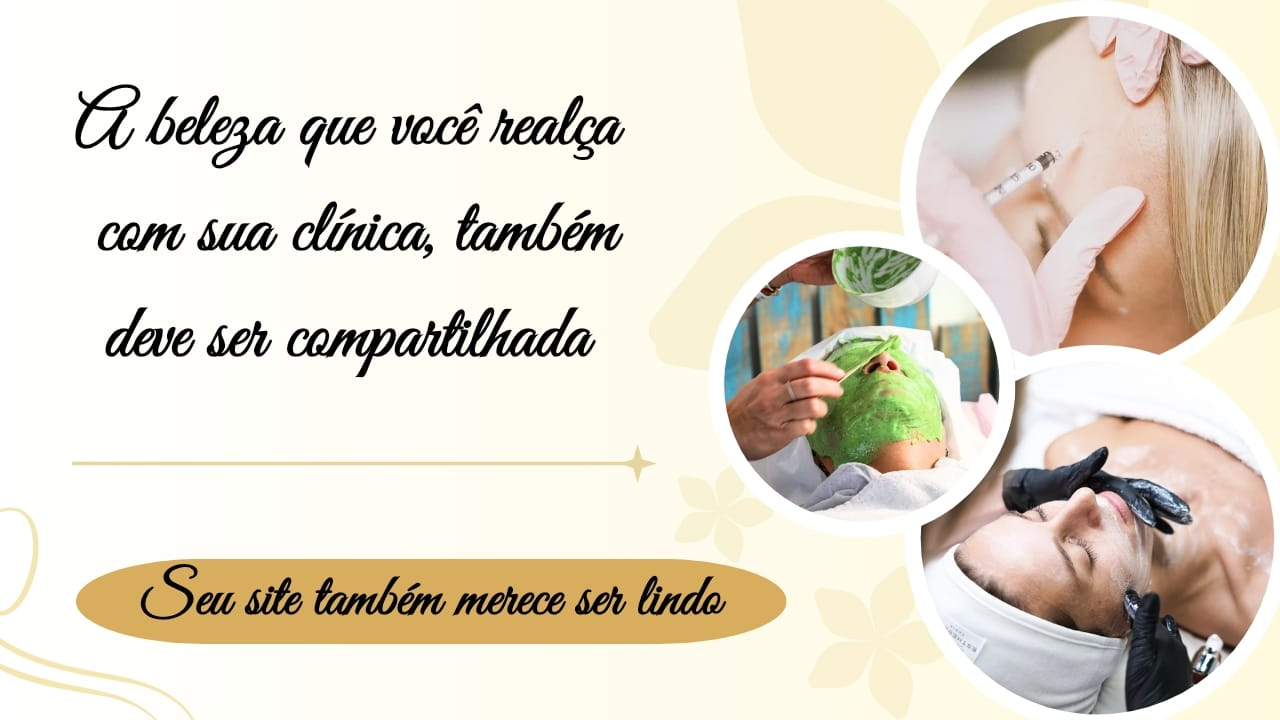
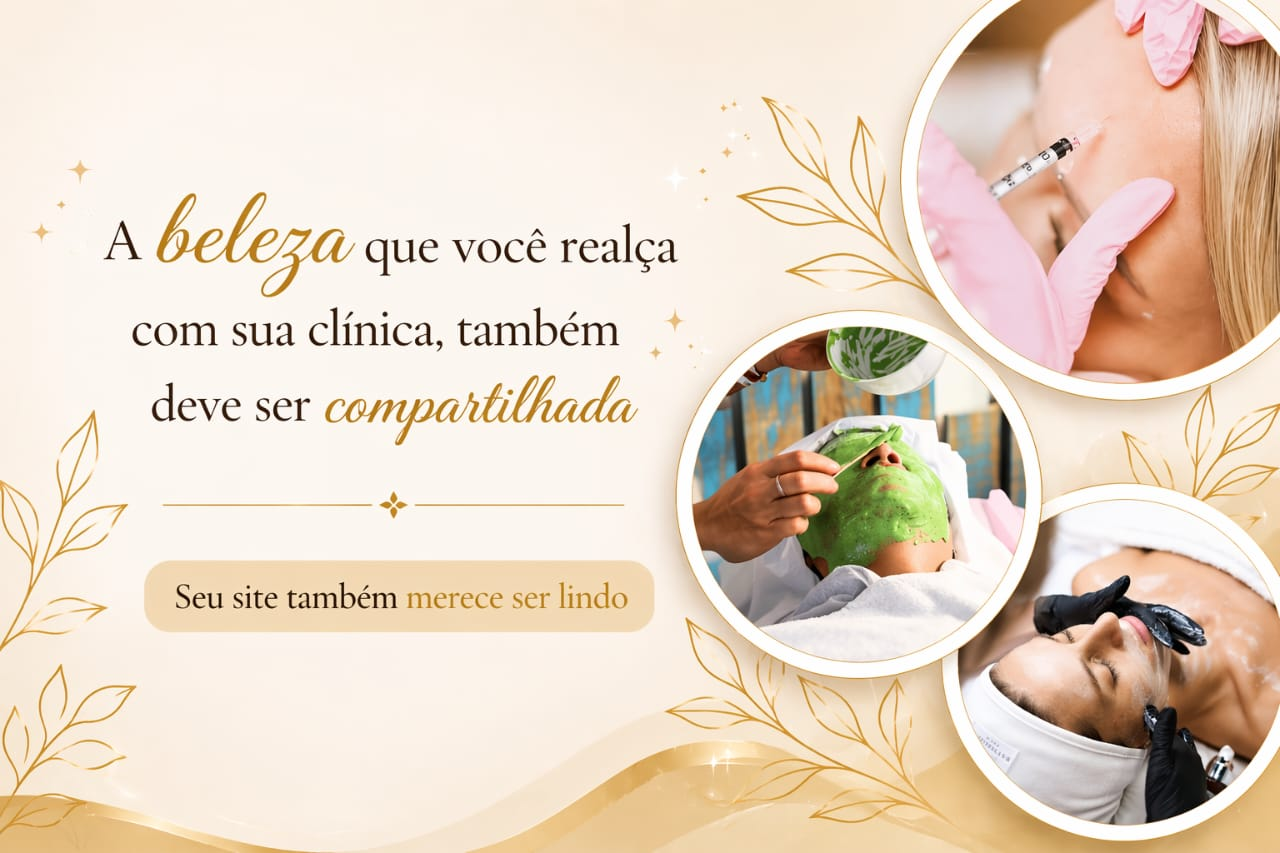
ajustes de layout gerais. V1 concluida

diff --git a/src/app/components/portfolio/portfolio.component.html b/src/app/components/portfolio/portfolio.component.html
@@ -1,13 +1,18 @@
 <section id="como-funciona" class="pt-24 md:pt-32 pb-12 md:pb-14 bg-blue-50">
-  <div class="max-w-[95%] md:max-w-7xl mx-auto px-4 md:px-6 space-y-12 md:space-y-16">
-
+  <div
+    class="max-w-[95%] md:max-w-7xl mx-auto px-4 md:px-6 space-y-12 md:space-y-16"
+  >
     <!-- HEADER -->
     <div>
-      <p class="text-xs md:text-sm font-semibold text-blue-600 tracking-widest uppercase mb-3 md:mb-4">
+      <p
+        class="text-xs md:text-sm font-semibold text-blue-600 tracking-widest uppercase mb-3 md:mb-4"
+      >
         Como Funciona
       </p>
 
-      <h2 class="text-2xl sm:text-3xl md:text-5xl font-extrabold text-gray-900 max-w-3xl leading-tight">
+      <h2
+        class="text-2xl sm:text-3xl md:text-5xl font-extrabold text-gray-900 max-w-3xl leading-tight"
+      >
         Tudo que você precisa saber para
         <span class="text-blue-600">adquirir seu site</span> e
         <span class="text-yellow-400">impulsionar seu negócio</span>
@@ -16,21 +21,46 @@
 
     <!-- CARD 1 -->
     <div class="grid md:grid-cols-2 gap-6 md:gap-12 items-center">
-
       <!-- MIDIA -->
-      <div class="order-1 overflow-hidden rounded-2xl shadow-md hover:scale-105 transition duration-500 aspect-[16/9]">
-        <video class="w-full h-full object-cover" autoplay muted loop playsinline>
-          <source src="assets/images/how-it-works-1.mp4" type="video/mp4" />
-        </video>
+      <div
+        class="order-1 overflow-hidden rounded-2xl shadow-md hover:scale-105 transition duration-500"
+      >
+        <div class="relative group">
+          <video
+            #videoPlayer
+            class="w-full h-full object-cover"
+            muted
+            loop
+            playsinline
+          >
+            <source src="assets/images/how-it-works-1.mp4" type="video/mp4" />
+          </video>
+
+          <!-- Overlay -->
+          <div
+            class="absolute inset-0 flex items-center justify-center bg-black/30 opacity-0 group-hover:opacity-100 transition"
+          >
+            <button
+              (click)="toggleVideo(videoPlayer)"
+              class="bg-white/80 backdrop-blur-md rounded-full p-4 hover:scale-110 transition"
+            >
+              ▶
+            </button>
+          </div>
+        </div>
       </div>
 
       <!-- TEXTO -->
       <div class="order-2">
-        <p class="text-xs md:text-sm font-semibold text-yellow-400 uppercase tracking-wider">
+        <p
+          class="text-xs md:text-sm font-semibold text-yellow-400 uppercase tracking-wider"
+        >
           Passo a Passo
         </p>
 
-        <h4 class="text-xl sm:text-2xl md:text-3xl font-extrabold text-blue-700 tracking-tight">
+        <h4
+          class="text-xl sm:text-2xl md:text-3xl font-extrabold text-blue-700 tracking-tight"
+        >
           Quanto custa adquirir seu site
         </h4>
 
@@ -59,26 +89,32 @@
           Tudo pronto para você focar no crescimento do seu negócio.
         </p>
       </div>
-
     </div>
 
     <!-- CARD 2 (invertido no desktop) -->
     <div class="grid md:grid-cols-2 gap-6 md:gap-12 items-center">
-
       <!-- MIDIA -->
-      <div class="order-1 md:order-2 overflow-hidden rounded-2xl shadow-md hover:scale-105 transition duration-500 aspect-[16/9]">
-        <img src="assets/images/how-it-works-2.jpeg"
-             alt="Vantagens"
-             class="w-full h-full object-cover" />
+      <div
+        class="order-1 md:order-2 overflow-hidden rounded-2xl shadow-md hover:scale-105 transition duration-500 aspect-[16/9]"
+      >
+        <img
+          src="assets/images/how-it-works-2.jpeg"
+          alt="Vantagens"
+          class="w-full h-full object-cover"
+        />
       </div>
 
       <!-- TEXTO -->
       <div class="order-2 md:order-1 text-left md:text-right">
-        <p class="text-xs md:text-sm font-semibold text-yellow-400 uppercase tracking-wider">
+        <p
+          class="text-xs md:text-sm font-semibold text-yellow-400 uppercase tracking-wider"
+        >
           O que você recebe
         </p>
 
-        <h4 class="text-xl sm:text-2xl md:text-3xl font-extrabold text-blue-700 tracking-tight">
+        <h4
+          class="text-xl sm:text-2xl md:text-3xl font-extrabold text-blue-700 tracking-tight"
+        >
           Recursos e vantagens inclusas
         </h4>
 
@@ -107,31 +143,38 @@
           Todos os recursos pensados para gerar autoridade e conversão.
         </p>
       </div>
-
     </div>
 
     <!-- CARD 3 -->
     <div class="grid md:grid-cols-2 gap-6 md:gap-12 items-center">
-
       <!-- MIDIA -->
-      <div class="order-1 overflow-hidden rounded-2xl shadow-md hover:scale-105 transition duration-500 aspect-[16/9]">
-        <img src="assets/images/how-it-works-3.jpeg"
-             alt="O que o site pode fazer por você"
-             class="w-full h-full object-cover" />
+      <div
+        class="order-1 overflow-hidden rounded-2xl shadow-md hover:scale-105 transition duration-500 aspect-[16/9]"
+      >
+        <img
+          src="assets/images/how-it-works-3.jpeg"
+          alt="O que o site pode fazer por você"
+          class="w-full h-full object-cover"
+        />
       </div>
 
       <!-- TEXTO -->
       <div class="order-2">
-        <p class="text-xs md:text-sm font-semibold text-yellow-400 uppercase tracking-wider">
+        <p
+          class="text-xs md:text-sm font-semibold text-yellow-400 uppercase tracking-wider"
+        >
           Impacto no negócio
         </p>
 
-        <h4 class="text-xl sm:text-2xl md:text-3xl font-extrabold text-blue-700 tracking-tight">
+        <h4
+          class="text-xl sm:text-2xl md:text-3xl font-extrabold text-blue-700 tracking-tight"
+        >
           O que este site pode fazer por você
         </h4>
 
         <p class="mt-2 text-gray-700 text-base md:text-lg font-semibold">
-          Sites profissionais que geram confiança, atraem clientes e aumentam sua presença digital.
+          Sites profissionais que geram confiança, atraem clientes e aumentam
+          sua presença digital.
         </p>
 
         <ul class="mt-4 space-y-2 text-gray-600 text-sm md:text-base">
@@ -155,16 +198,16 @@
           Tudo pronto para alavancar seu negócio com profissionalismo.
         </p>
       </div>
-
     </div>
 
     <!-- CTA -->
     <div class="mt-10 md:mt-12 text-center">
-      <a href="#contact"
-         class="inline-block bg-blue-600 text-white px-6 md:px-10 py-3 md:py-4 text-sm md:text-base rounded-xl font-bold shadow-lg hover:shadow-2xl hover:scale-105 transition duration-300">
+      <a
+        href="#contact"
+        class="inline-block bg-blue-600 text-white px-6 md:px-10 py-3 md:py-4 text-sm md:text-base rounded-xl font-bold shadow-lg hover:shadow-2xl hover:scale-105 transition duration-300"
+      >
         💥 Quero meu site agora
       </a>
     </div>
-
   </div>
 </section>

diff --git a/src/app/components/portfolio/portfolio.component.ts b/src/app/components/portfolio/portfolio.component.ts
@@ -1,12 +1,40 @@
-import { Component } from '@angular/core';
+import { Component, ElementRef, ViewChild, AfterViewInit } from '@angular/core';
 
 @Component({
   selector: 'app-portfolio',
   standalone: true,
-  imports: [],
   templateUrl: './portfolio.component.html',
   styleUrl: './portfolio.component.css'
 })
-export class PortfolioComponent {
+export class PortfolioComponent implements AfterViewInit {
+
+  @ViewChild('videoPlayer') videoRef!: ElementRef<HTMLVideoElement>;
+
+  ngAfterViewInit() {
+    const video = this.videoRef.nativeElement;
+
+    const observer = new IntersectionObserver(
+      (entries) => {
+        entries.forEach(entry => {
+          if (entry.isIntersecting) {
+            video.play().catch(() => { });
+          } else {
+            video.pause();
+          }
+        });
+      },
+      { threshold: 0.5 } // 50% visível
+    );
+
+    observer.observe(video);
+  }
+
+  toggleVideo(video: HTMLVideoElement) {
+    if (video.paused) {
+      video.play();
+    } else {
+      video.pause();
+    }
+  }
 
 }

diff --git a/src/app/components/services/services.component.html b/src/app/components/services/services.component.html
@@ -35,15 +35,15 @@
           [ngClass]="{
             'opacity-100 scale-100 z-10': currentIndex === i,
             'opacity-0 scale-95 z-0': currentIndex !== i,
-          }"
-        >
+          }">
+          
           <div class="relative rounded-3xl shadow-xl overflow-hidden h-full">
             
             <!-- IMAGEM -->
             <img
               [src]="service.image"
               [alt]="service.title"
-              class="absolute inset-0 w-full h-full object-cover"
+              class="absolute inset-0 w-full h-full "
             />
 
             <!-- CONTEÚDO -->

diff --git a/src/app/components/header/header.component.ts b/src/app/components/header/header.component.ts
@@ -1,5 +1,6 @@
 import { CommonModule } from '@angular/common';
 import { Component } from '@angular/core';
+import { Router } from '@angular/router';
 
 @Component({
   selector: 'app-header',
@@ -12,7 +13,10 @@ import { Component } from '@angular/core';
 })
 export class HeaderComponent {
 
+  constructor(private router: Router) {}
+
   scrollToZero() {
+    this.router.navigate([''])
     window.scrollTo(0, 0)
   }
 